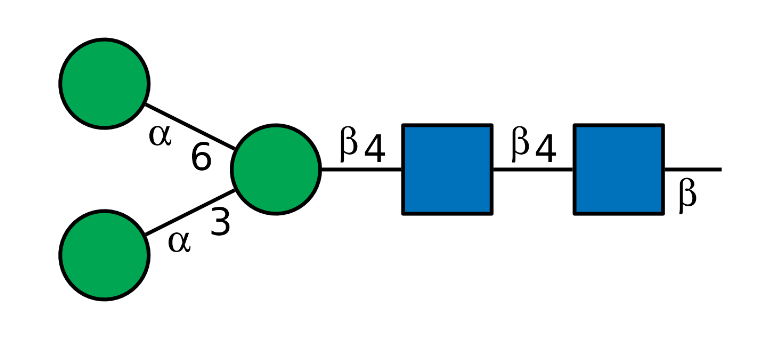
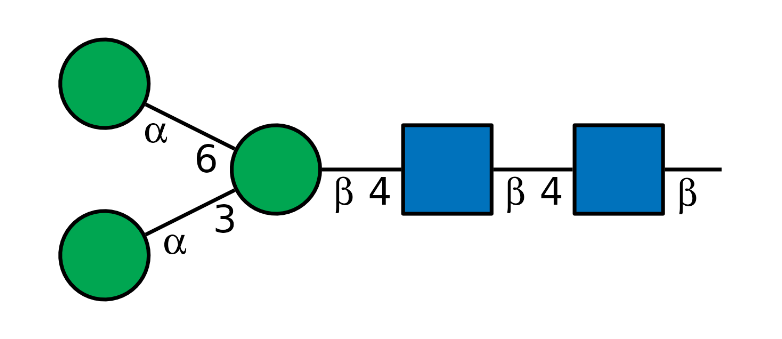
Deploying to gh-pages from @ glycoverse/glydraw@fe2ac8cad756a17524c44c37a09530ea463f9c50 🚀

diff --git a/dev/articles/glydraw.html b/dev/articles/glydraw.html
@@ -183,7 +183,7 @@ layout but draw larger symbols.</p>
 <p><img src="glydraw_files/figure-html/node-size-1.png" class="r-plt" alt="" width="391.2"></p>
 <div class="sourceCode" id="cb11"><pre class="downlit sourceCode r">
 <code class="sourceCode R"><span><span class="fu"><a href="../reference/draw_cartoon.html">draw_cartoon</a></span><span class="op">(</span><span class="va">n_core</span>, style <span class="op">=</span> <span class="fu"><a href="../reference/style_glydraw.html">style_glydraw</a></span><span class="op">(</span>node_size <span class="op">=</span> <span class="fl">1.6</span><span class="op">)</span><span class="op">)</span></span>
-<span><span class="co">#&gt; Warning: Linkage annotations are hidden because `node_size` is larger than <span style="color: #0000BB;">1.2</span>.</span></span>
+<span><span class="co">#&gt; Warning: Linkage annotations are hidden because `node_size` is larger than <span style="color: #0000BB;">1.4</span>.</span></span>
 <span><span class="co">#&gt; <span style="color: #00BBBB;">ℹ</span> Set `show_linkage = FALSE` to silence this warning, or use a smaller</span></span>
 <span><span class="co">#&gt;   `node_size`.</span></span></code></pre></div>
 <p><img src="glydraw_files/figure-html/node-size-2.png" class="r-plt" alt="" width="391.2"></p>
@@ -236,7 +236,7 @@ object.</p>
 <span></span>
 <span><span class="fu"><a href="../reference/save_cartoon.html">save_cartoon</a></span><span class="op">(</span><span class="va">cartoon</span>, <span class="va">outfile</span>, scale <span class="op">=</span> <span class="fl">2</span><span class="op">)</span></span>
 <span><span class="va">outfile</span></span>
-<span><span class="co">#&gt; [1] "/tmp/Rtmpk0PPwk/n-core.png"</span></span></code></pre></div>
+<span><span class="co">#&gt; [1] "/tmp/RtmpqmkLMo/n-core.png"</span></span></code></pre></div>
 <p><code>glydraw</code> does not expose separate <code>width</code> and
 <code>height</code> controls because each cartoon has a natural size
 calculated from its glycan structure. <code>scale</code> preserves the

diff --git a/dev/news/index.html b/dev/news/index.html
@@ -54,7 +54,8 @@
 </ul></div>
 <div class="section level3">
 <h3 id="minor-improvements-and-bug-fixes-development-version">Minor improvements and bug fixes<a class="anchor" aria-label="anchor" href="#minor-improvements-and-bug-fixes-development-version"></a></h3>
-<ul><li><p><code>red_end = NULL</code> now omits both the reducing-end line and its anomer annotation across glycan drawing interfaces. (<a href="https://github.com/glycoverse/glydraw/issues/71" class="external-link">#71</a>)</p></li>
+<ul><li><p><code>style_glydraw(node_size = ...)</code> now distributes linkage-annotation spacing adjustments across the node-to-label and label-to-label gaps, keeping linkage notation readable with enlarged nodes. (<a href="https://github.com/glycoverse/glydraw/issues/74" class="external-link">#74</a>)</p></li>
+<li><p><code>red_end = NULL</code> now omits both the reducing-end line and its anomer annotation across glycan drawing interfaces. (<a href="https://github.com/glycoverse/glydraw/issues/71" class="external-link">#71</a>)</p></li>
 <li><p>Move beta linkage annotations slightly away from horizontal and skewed edge lines while leaving labels beside vertical edges unchanged, including reducing-end annotations. (<a href="https://github.com/glycoverse/glydraw/issues/70" class="external-link">#70</a>)</p></li>
 </ul></div>
 </div>

diff --git a/dev/articles/glydraw.md b/dev/articles/glydraw.md
@@ -149,7 +149,7 @@ draw_cartoon(n_core, style = style_glydraw(node_size = 1.2))
 ``` r
 
 draw_cartoon(n_core, style = style_glydraw(node_size = 1.6))
-#> Warning: Linkage annotations are hidden because `node_size` is larger than 1.2.
+#> Warning: Linkage annotations are hidden because `node_size` is larger than 1.4.
 #> ℹ Set `show_linkage = FALSE` to silence this warning, or use a smaller
 #>   `node_size`.
 ```
@@ -212,7 +212,7 @@ outfile <- file.path(tempdir(), "n-core.png")
 
 save_cartoon(cartoon, outfile, scale = 2)
 outfile
-#> [1] "/tmp/Rtmpk0PPwk/n-core.png"
+#> [1] "/tmp/RtmpqmkLMo/n-core.png"
 ```
 
 `glydraw` does not expose separate `width` and `height` controls because

diff --git a/dev/news/index.md b/dev/news/index.md
@@ -78,6 +78,11 @@
 
 ### Minor improvements and bug fixes
 
+- `style_glydraw(node_size = ...)` now distributes linkage-annotation
+  spacing adjustments across the node-to-label and label-to-label gaps,
+  keeping linkage notation readable with enlarged nodes.
+  ([\#74](https://github.com/glycoverse/glydraw/issues/74))
+
 - `red_end = NULL` now omits both the reducing-end line and its anomer
   annotation across glycan drawing interfaces.
   ([\#71](https://github.com/glycoverse/glydraw/issues/71))
